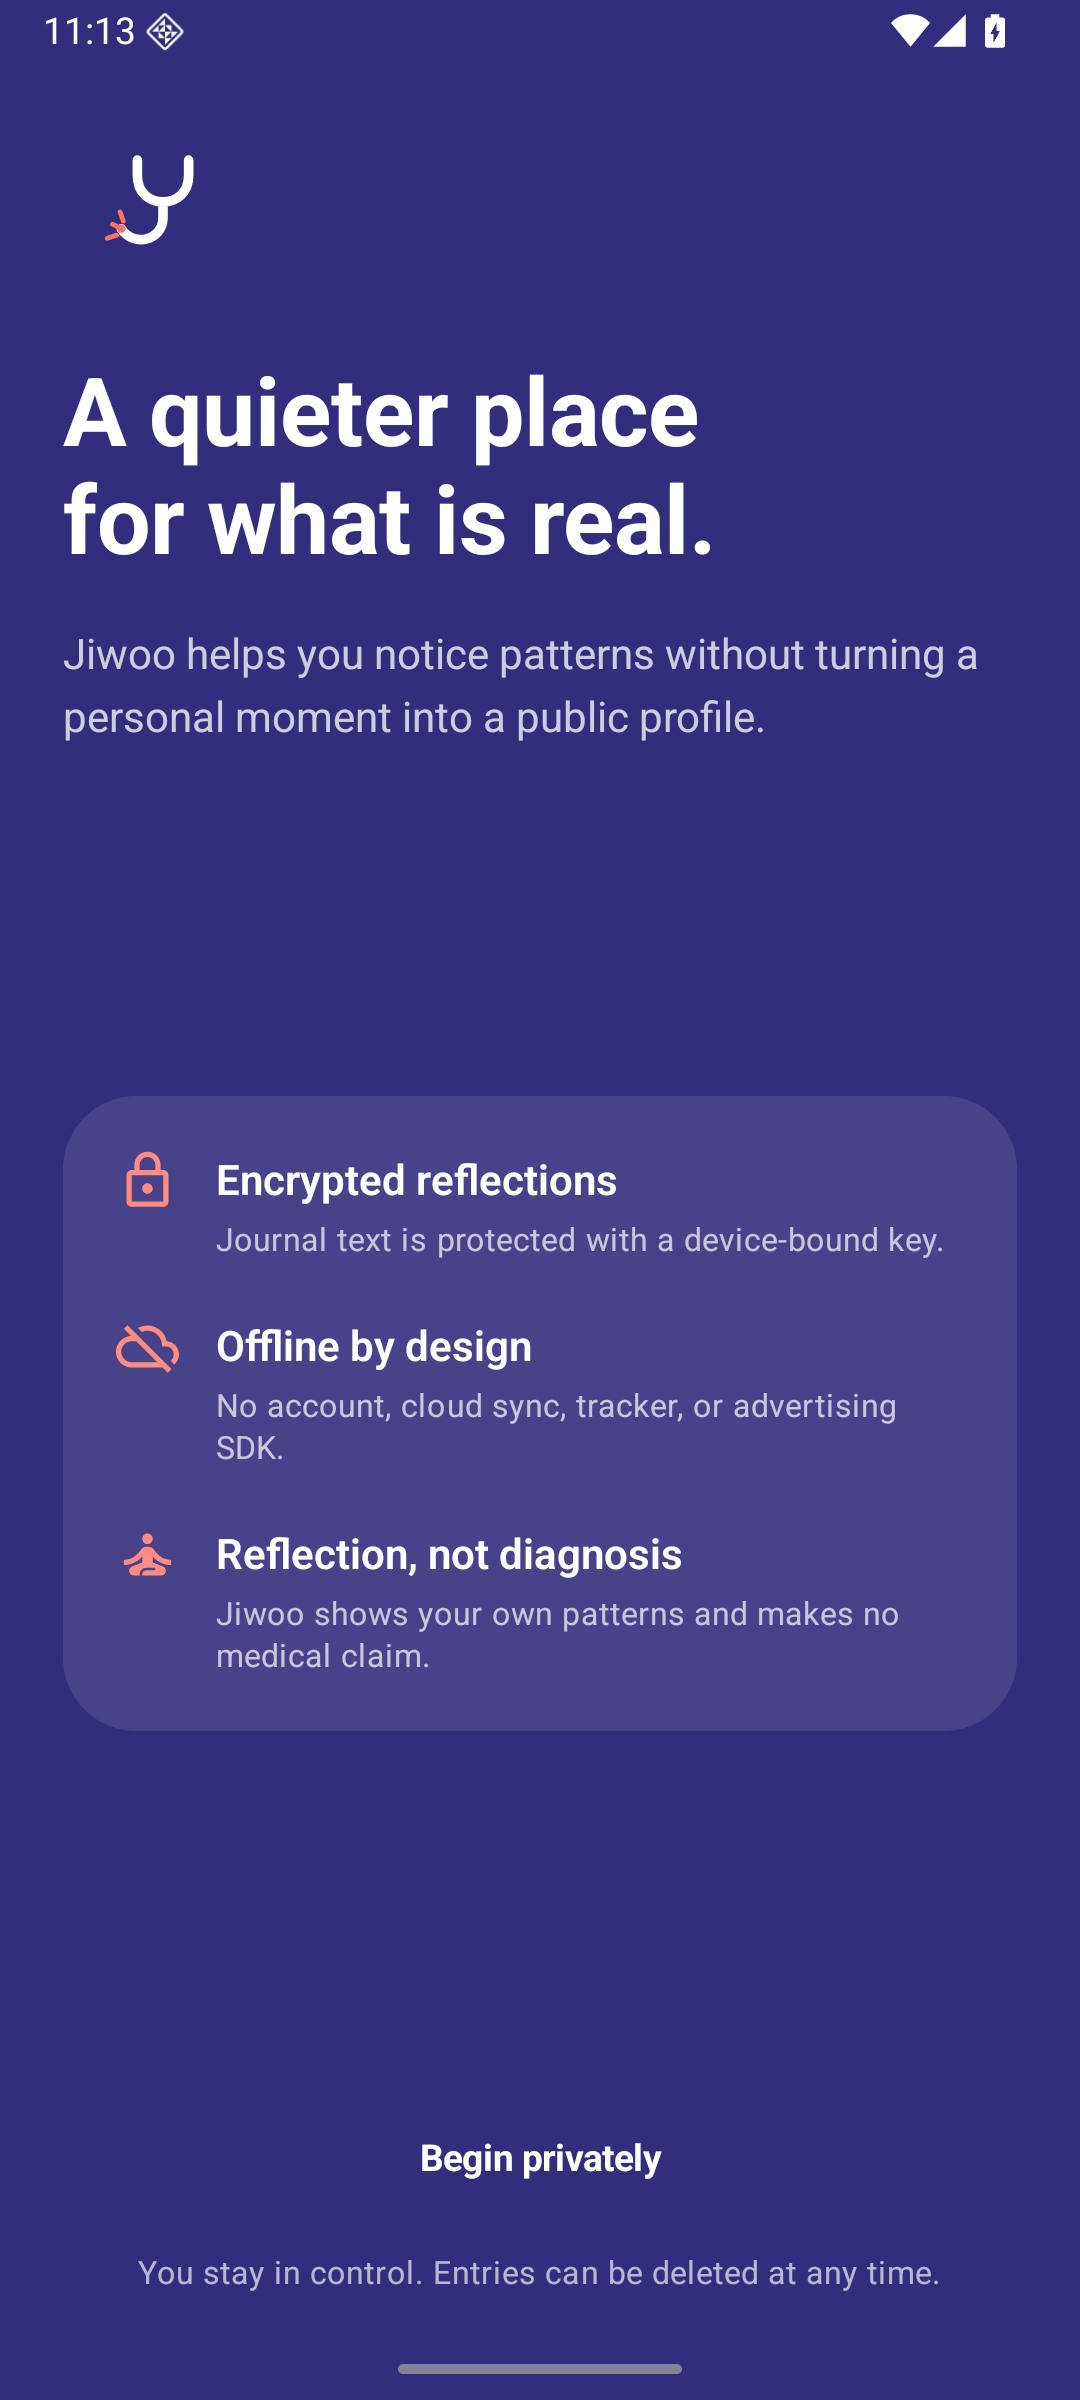
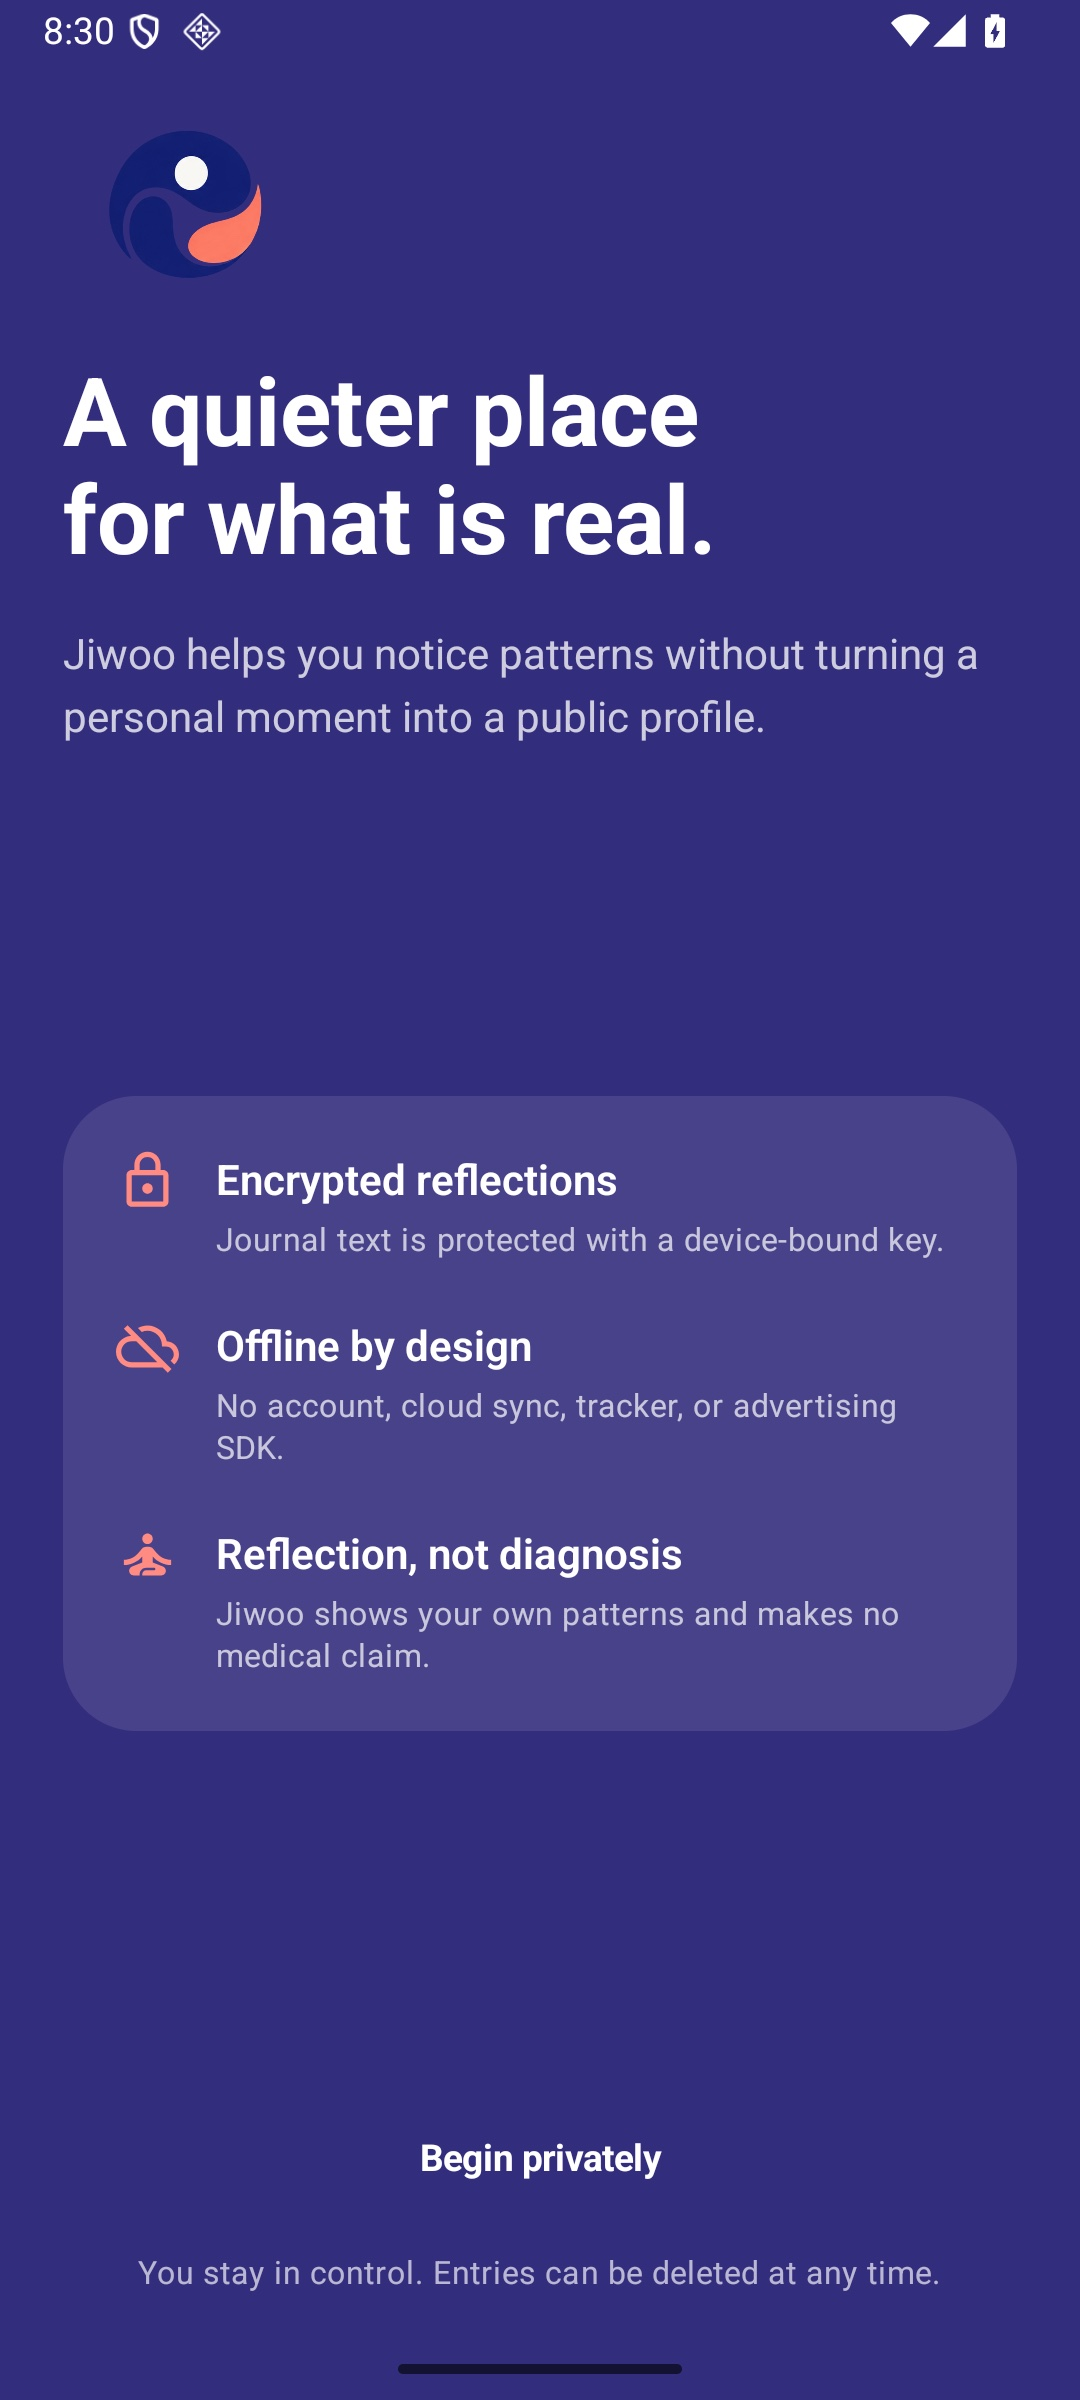
fix: align Jiwoo product identity and evidence

Changed region(s): [[0.0306, 0.0, 0.2444, 0.125], [0.3667, 0.9688, 0.6111, 1.0]]

diff --git a/app/src/main/java/dev/abiekaputra/jiwoo/ui/components/Brand.kt b/app/src/main/java/dev/abiekaputra/jiwoo/ui/components/Brand.kt
@@ -23,20 +23,14 @@ import androidx.compose.ui.unit.dp
 import androidx.compose.ui.unit.sp
 import dev.abiekaputra.jiwoo.R
 import dev.abiekaputra.jiwoo.ui.theme.JiwooCoral
-import dev.abiekaputra.jiwoo.ui.theme.JiwooIndigo
 
 @Composable
 fun JiwooMark(modifier: Modifier = Modifier, size: Int = 64) {
-    Box(
-        modifier = modifier.size(size.dp).background(JiwooIndigo, CircleShape),
-        contentAlignment = Alignment.Center,
-    ) {
-        Image(
-            painter = painterResource(R.drawable.ic_jiwoo_foreground),
-            contentDescription = "Jiwoo private reflection mark",
-            modifier = Modifier.size((size * 0.82f).dp),
-        )
-    }
+    Image(
+        painter = painterResource(R.drawable.jiwoo_mark),
+        contentDescription = "Jiwoo private reflection mark",
+        modifier = modifier.size(size.dp),
+    )
 }
 
 @Composable

diff --git a/app/src/androidTest/java/dev/abiekaputra/jiwoo/JiwooJourneyTest.kt b/app/src/androidTest/java/dev/abiekaputra/jiwoo/JiwooJourneyTest.kt
@@ -141,7 +141,9 @@ class JiwooJourneyTest {
     private fun capture(name: String) {
         composeRule.waitForIdle()
         val context = InstrumentationRegistry.getInstrumentation().targetContext
-        val directory = File(context.getExternalFilesDir(null), "screenshots").apply(File::mkdirs)
+        val evidenceRoot =
+            context.externalMediaDirs.firstOrNull() ?: context.getExternalFilesDir(null)
+        val directory = File(evidenceRoot, "screenshots").apply(File::mkdirs)
         UiDevice.getInstance(InstrumentationRegistry.getInstrumentation())
             .takeScreenshot(File(directory, "$name.png"))
     }

diff --git a/app/src/main/java/dev/abiekaputra/jiwoo/reminder/ReflectionReminderWorker.kt b/app/src/main/java/dev/abiekaputra/jiwoo/reminder/ReflectionReminderWorker.kt
@@ -20,7 +20,7 @@ class ReflectionReminderWorker(
         }
         val notification =
             NotificationCompat.Builder(applicationContext, CHANNEL_ID)
-                .setSmallIcon(R.drawable.ic_jiwoo_foreground)
+                .setSmallIcon(R.drawable.ic_jiwoo_notification)
                 .setContentTitle(applicationContext.getString(R.string.reminder_title))
                 .setContentText(applicationContext.getString(R.string.reminder_body))
                 .setPriority(NotificationCompat.PRIORITY_DEFAULT)

diff --git a/README.md b/README.md
@@ -1,7 +1,7 @@
 # Jiwoo
 
 <p align="center">
-  <img src="docs/jiwoo-mark.svg" alt="Jiwoo logo" width="112" />
+  <img src="docs/jiwoo-lockup.png" alt="Jiwoo" width="520" />
 </p>
 
 <p align="center">
